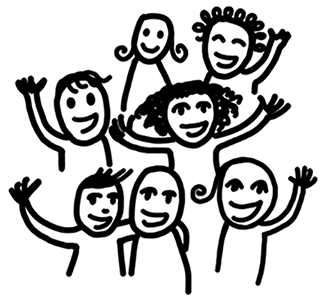
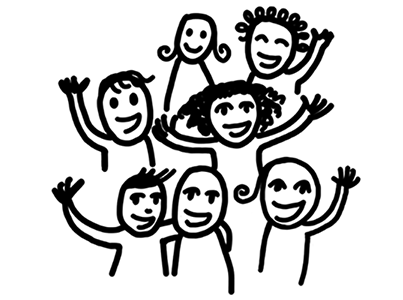
Change landing picture size and button color

diff --git a/app/assets/stylesheets/custom/_bootstrap_vars.scss b/app/assets/stylesheets/custom/_bootstrap_vars.scss
@@ -9,9 +9,9 @@ $navbar-default-link-active-bg: white;
 $navbar-default-link-active-color: $rg_red;
 $navbar-default-link-color: white;
 $brand-primary: white;
-$btn-primary-color: red;
-$btn-primary-bg: $button_try_colors;
-$btn-info-bg: $button_try_colors;
+$btn-primary-color: white;
+$btn-primary-bg: $header_red;
+$btn-info-bg: $header_red;
 
 $jumbotron-bg: white;
 $jumbotron-padding: 10px;

diff --git a/app/assets/stylesheets/custom/custom.css.scss b/app/assets/stylesheets/custom/custom.css.scss
@@ -166,3 +166,11 @@ body {
 #signup-button {
   margin-left: 60px;
 }
+
+//Landing Page Pictures
+
+.landing-image {
+  width: auto;
+  max-width: 80%;
+  max-height:40vh;
+}
